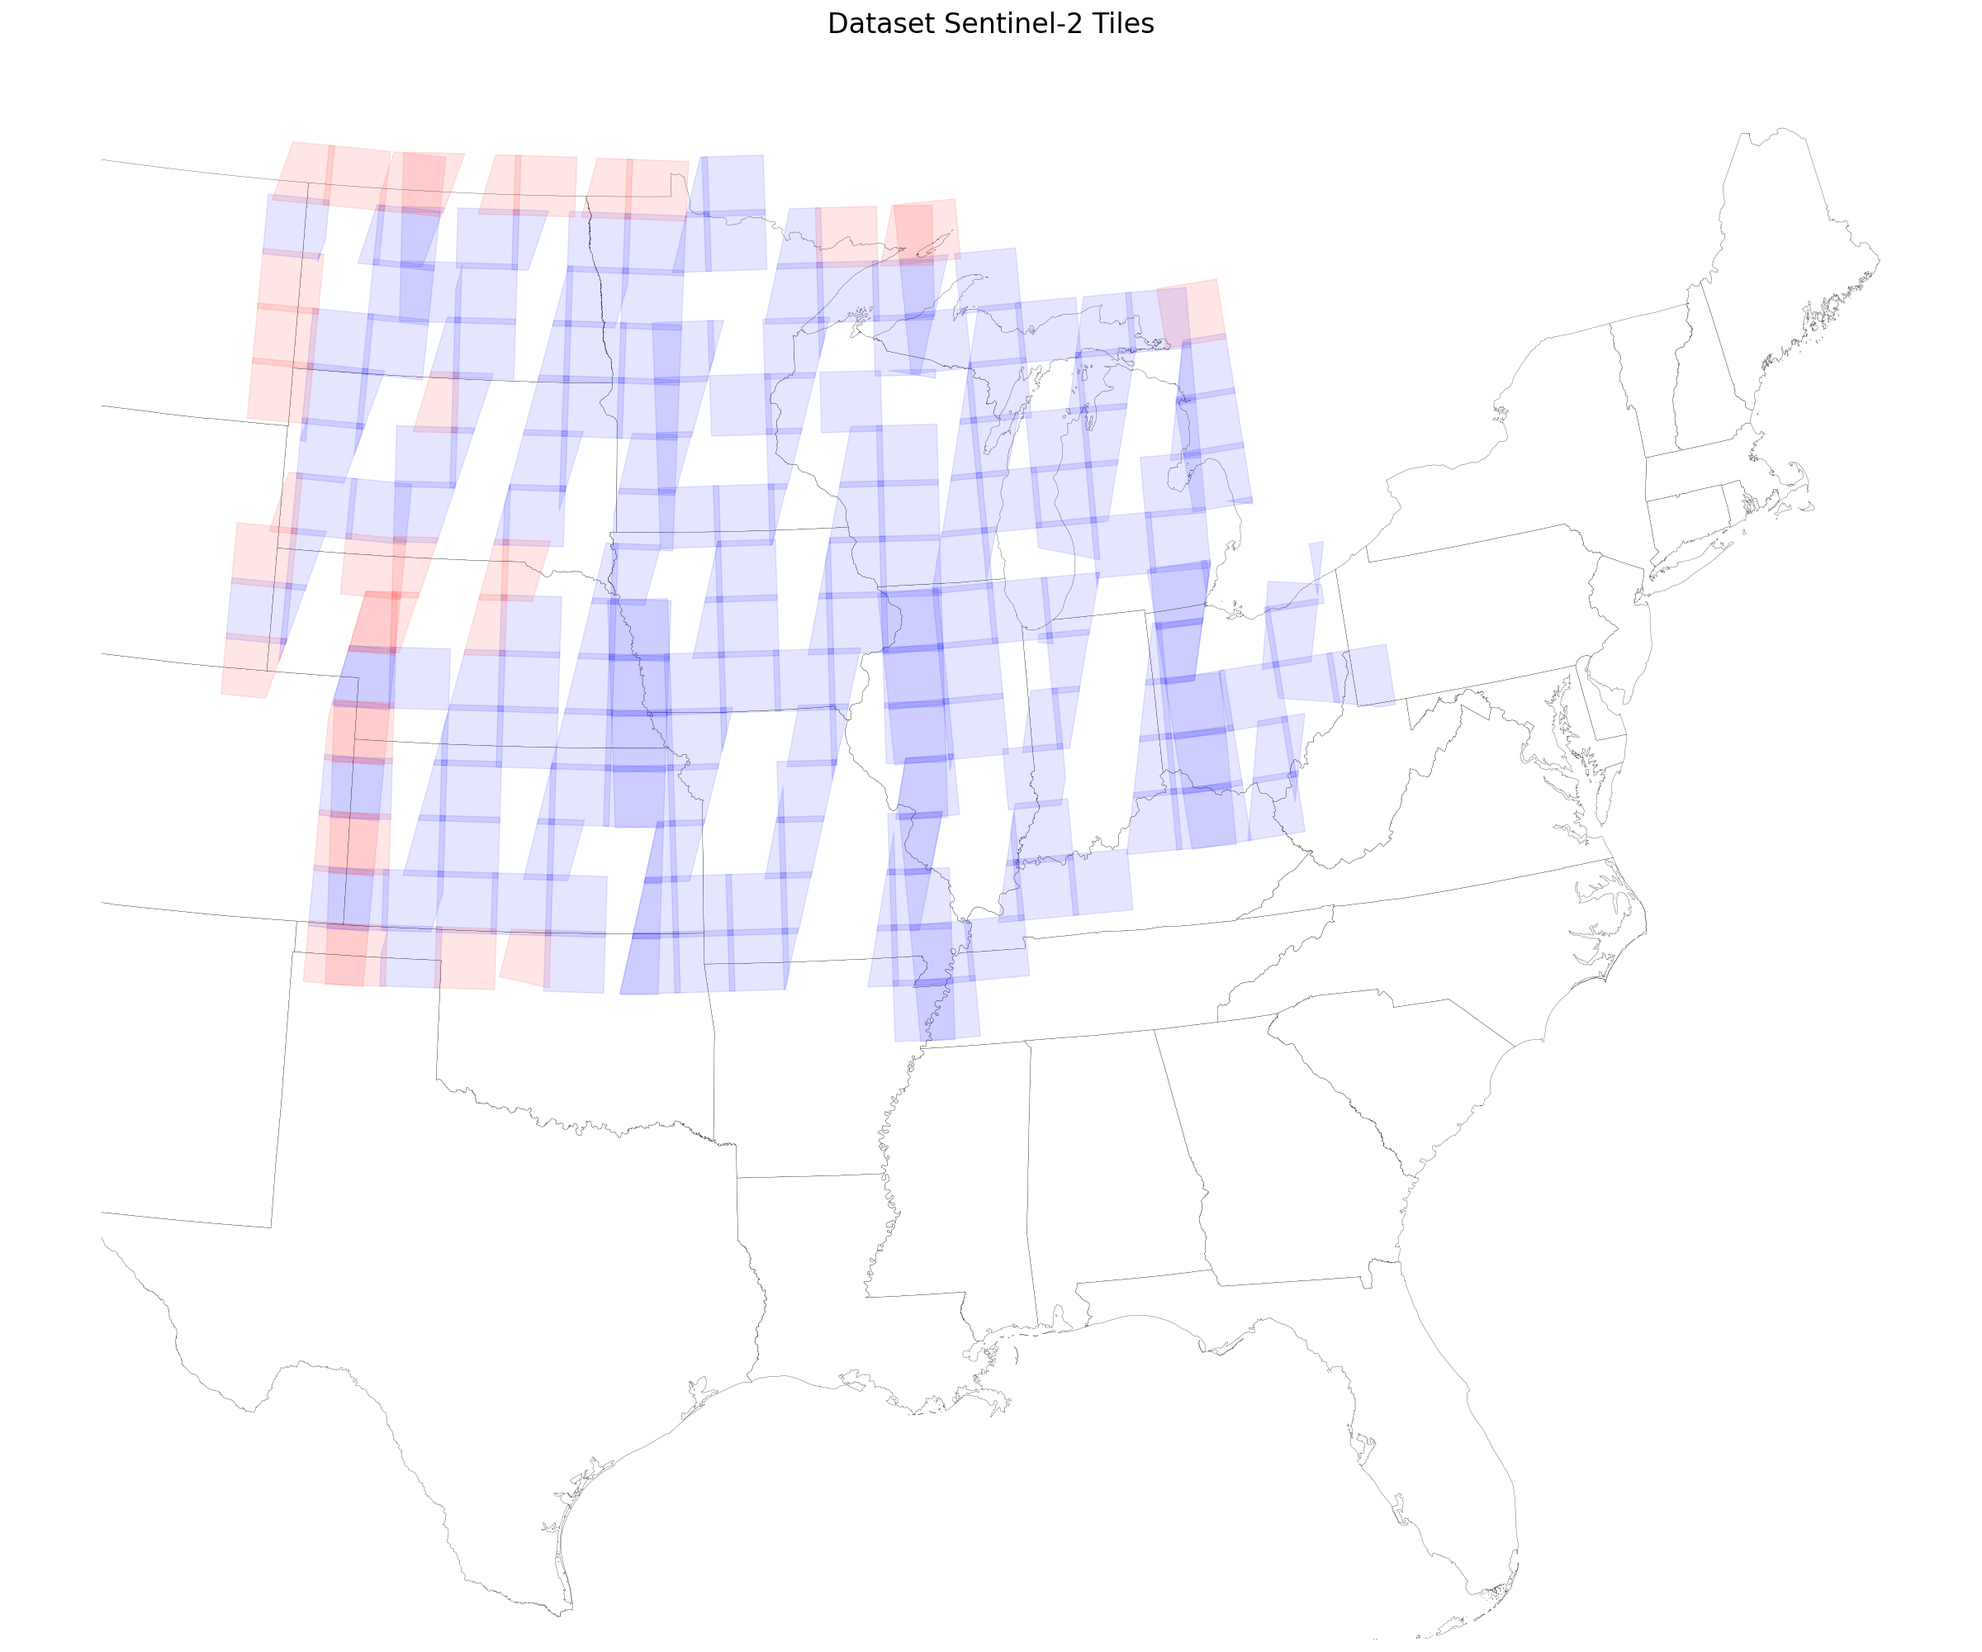
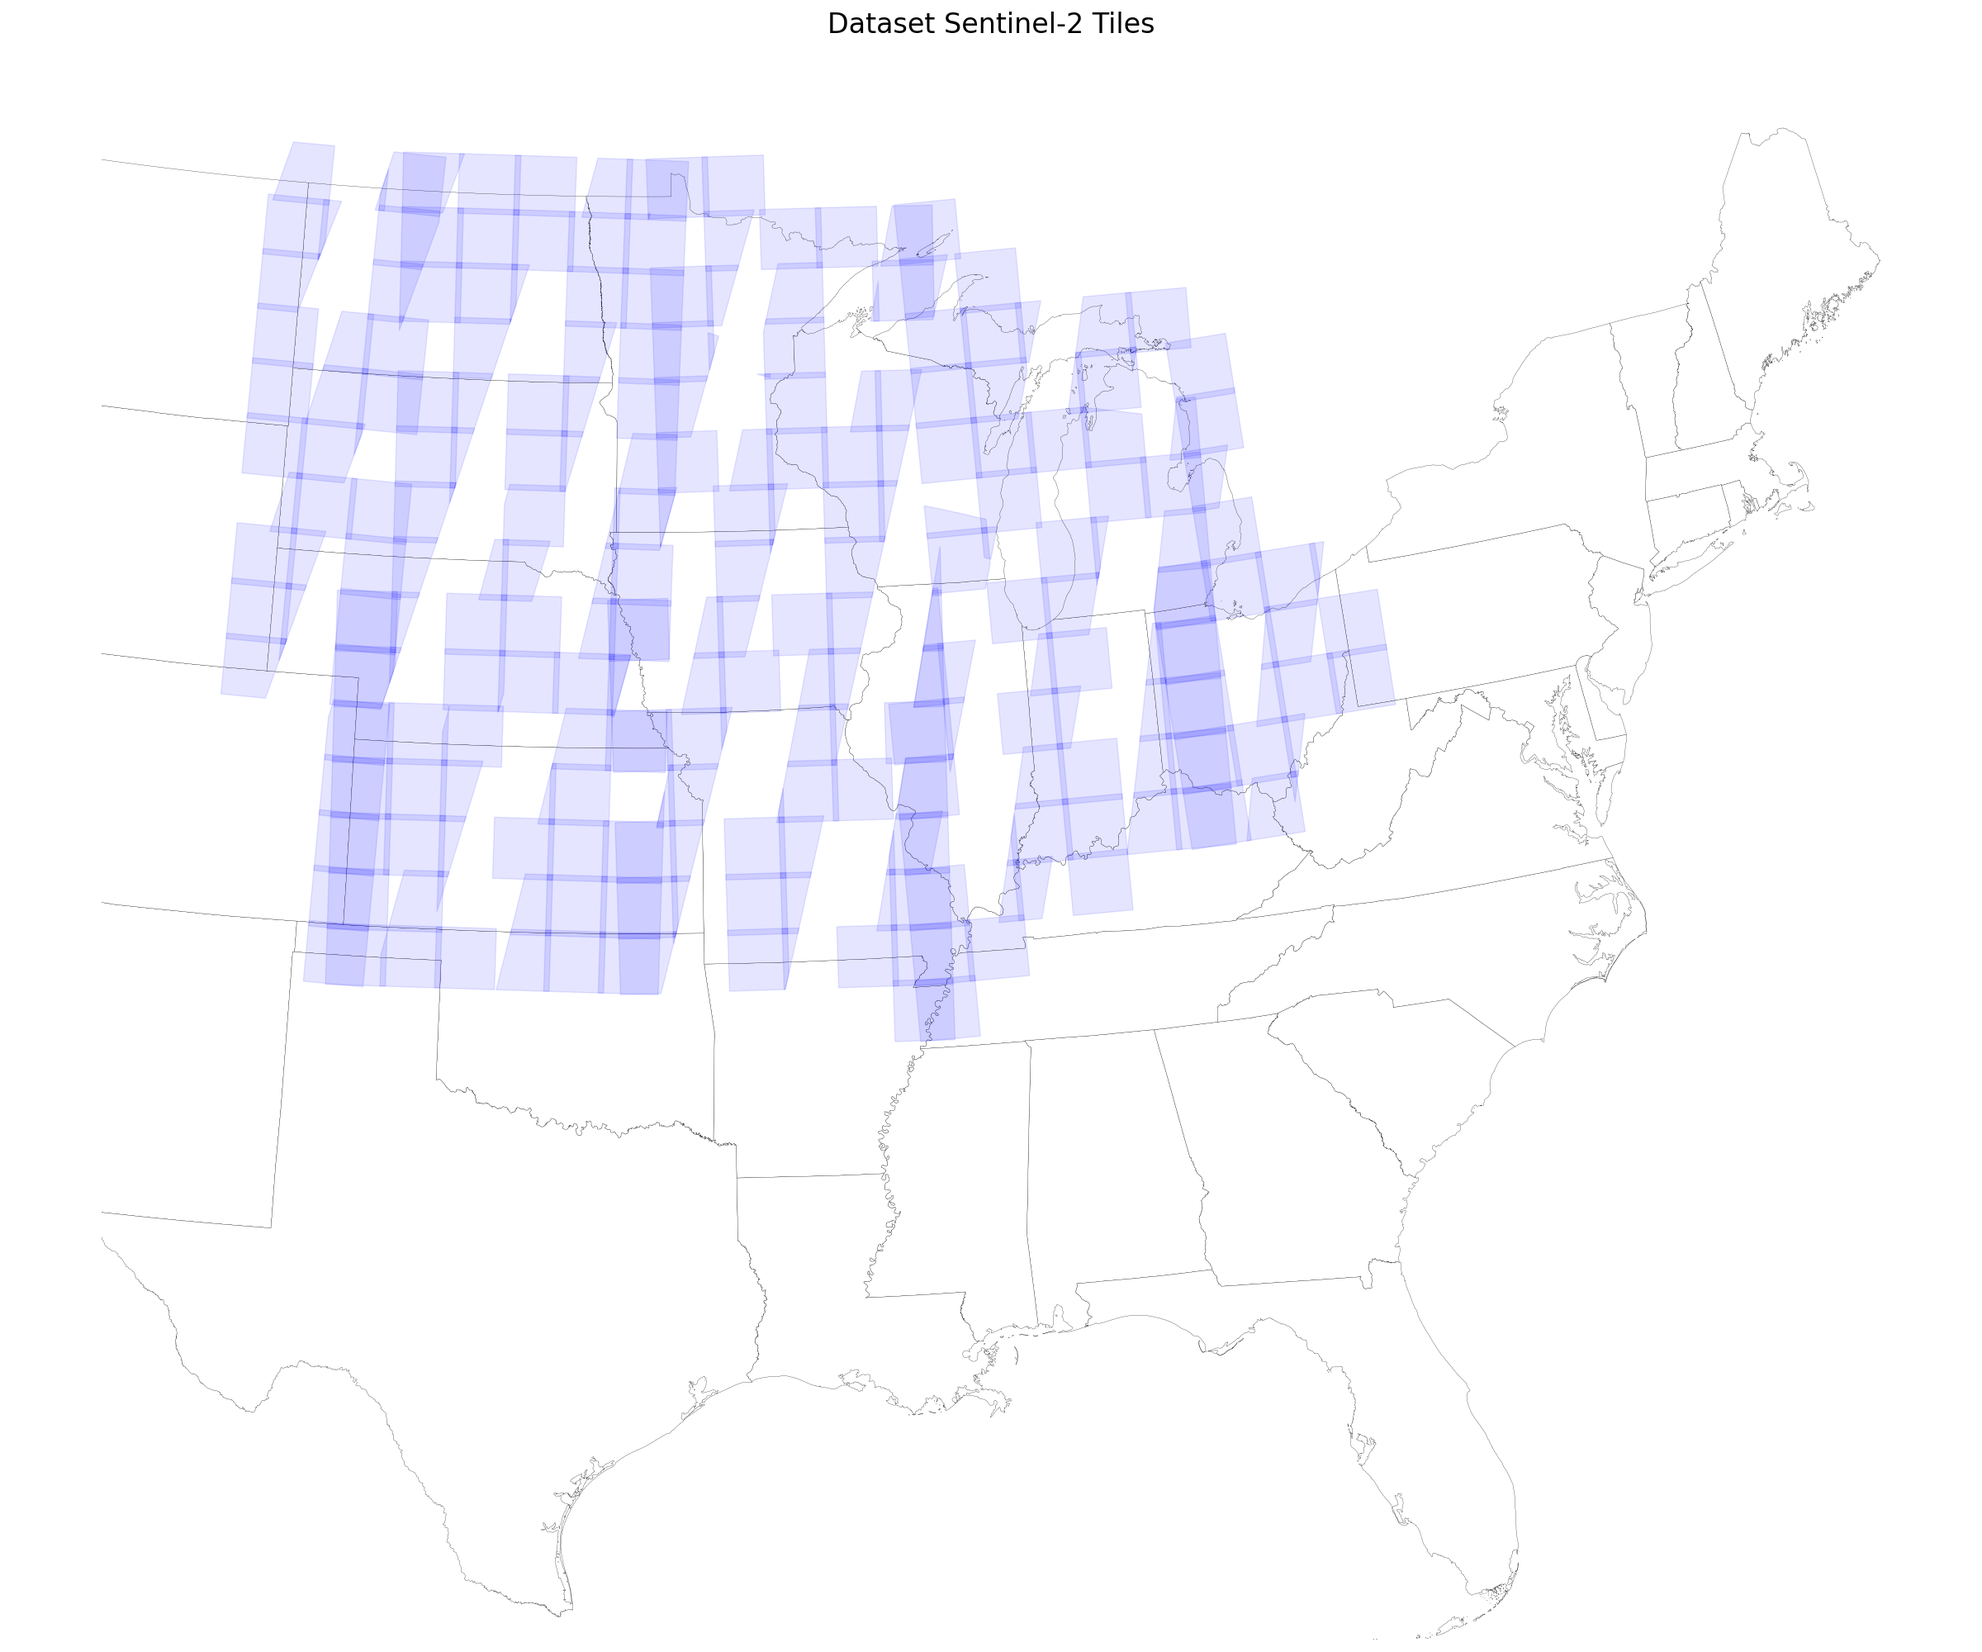
fixing band saving in chips.py

diff --git a/source/plots.py b/source/plots.py
@@ -12,7 +12,7 @@ import numpy as np
 # FILE PATHS
 US_SHP_PATH      = "../figures/cb_2024_us_state_500k/cb_2024_us_state_500k.shp"
 TRACTS_GEOM      = "../shapes/all_tracts/all_tracts.shp"
-S2_PRODUCTS_GEOM = "../other/search_results_geometries_2025.tsv"
+S2_PRODUCTS_GEOM = "../other/search_results_geometries_2023.tsv"
 
 PLOT_CRS         = "EPSG:5070"
 LABEL_MASK_LIST  = "../other/label_tiles.txt" #246 rasters w/ distinct tiles
@@ -46,15 +46,19 @@ def plot_tiles_and_tracts():
 	unique_mgrs,unique_mgrs_idx = np.unique(mgrs,return_index=True)
 	unique_tile_geom = np.array(tile_geom)[unique_mgrs_idx]
 	
-	with open(LABEL_MASK_LIST,'r') as fp:
-		label_tiles = [line.split('_')[0] for line in fp.readlines()]
+	# with open(LABEL_MASK_LIST,'r') as fp:
+		# label_tiles = [line.split('_')[0] for line in fp.readlines()]
  
-	good_mgrs_mask = np.isin(unique_mgrs,label_tiles)
-	good_mgrs      = unique_mgrs[good_mgrs_mask]
-	good_tile_geom = unique_tile_geom[good_mgrs_mask]
+	# good_mgrs_mask = np.isin(unique_mgrs,label_tiles)
+	# good_mgrs      = unique_mgrs[good_mgrs_mask]
+	# good_tile_geom = unique_tile_geom[good_mgrs_mask]
 
-	bad_mgrs      = unique_mgrs[~good_mgrs_mask]
-	bad_tile_geom = unique_tile_geom[~good_mgrs_mask]
+	# bad_mgrs      = unique_mgrs[~good_mgrs_mask]
+	# bad_tile_geom = unique_tile_geom[~good_mgrs_mask]
+
+	# DON'T FILTER
+	good_mgrs      = unique_mgrs
+	good_tile_geom = unique_tile_geom
 
 	# ---------------------------------------------------------------------------
 	# 3. Parse WKT geometries
@@ -68,21 +72,21 @@ def plot_tiles_and_tracts():
 	    crs="EPSG:4326"
 	)
 
-	bad_tile_wkts = [wkt.loads(s) for s in bad_tile_geom]
-	bad_tile_df   = pd.DataFrame({"tile": bad_mgrs})
-	bad_tile_gdf  = gpd.GeoDataFrame(
-	    bad_tile_df,
-	    geometry=bad_tile_wkts,
-	    crs="EPSG:4326"
-	)
-	bad_tile_gdf['geometry'] = bad_tile_gdf['geometry'].make_valid()
+	# bad_tile_wkts = [wkt.loads(s) for s in bad_tile_geom]
+	# bad_tile_df   = pd.DataFrame({"tile": bad_mgrs})
+	# bad_tile_gdf  = gpd.GeoDataFrame(
+	#     bad_tile_df,
+	#     geometry=bad_tile_wkts,
+	#     crs="EPSG:4326"
+	# )
+	# bad_tile_gdf['geometry'] = bad_tile_gdf['geometry'].make_valid()
 
 	# ---------------------------------------------------------------------------
 	# 4. PROJECT TO COMMON CRS
 	# ---------------------------------------------------------------------------
 	contiguous    = contiguous.to_crs(PLOT_CRS)
 	tile_gdf      = tile_gdf.to_crs(PLOT_CRS)
-	bad_tile_gdf  = bad_tile_gdf.to_crs(PLOT_CRS)
+	# bad_tile_gdf  = bad_tile_gdf.to_crs(PLOT_CRS)
 	all_tracts    = all_tracts.to_crs(PLOT_CRS)
 
 	# ---------------------------------------------------------------------------
@@ -93,7 +97,7 @@ def plot_tiles_and_tracts():
 	contiguous.plot(ax=ax,color='white',alpha=1.0,edgecolor='black',linewidth=0.15)
 	all_tracts.plot(ax=ax,color='white',alpha=1.0,edgecolor='black',linewidth=0.1)
 	tile_gdf.plot(ax=ax,color='blue',alpha=0.1,edgecolor='blue',linewidth=1.0)
-	bad_tile_gdf.plot(ax=ax,color='red',alpha=0.1,edgecolor='red',linewidth=1.0)
+	# bad_tile_gdf.plot(ax=ax,color='red',alpha=0.1,edgecolor='red',linewidth=1.0)
 
 	# zoom in
 	xmin, ymin, xmax, ymax = contiguous.total_bounds
@@ -138,15 +142,18 @@ def plot_tiles():
 	unique_mgrs,unique_mgrs_idx = np.unique(mgrs,return_index=True)
 	unique_tile_geom = np.array(tile_geom)[unique_mgrs_idx]
 	
-	with open(LABEL_MASK_LIST,'r') as fp:
-		label_tiles = [line.split('_')[0] for line in fp.readlines()]
+	# with open(LABEL_MASK_LIST,'r') as fp:
+	# 	label_tiles = [line.split('_')[0] for line in fp.readlines()]
  
-	good_mgrs_mask = np.isin(unique_mgrs,label_tiles)
-	good_mgrs      = unique_mgrs[good_mgrs_mask]
-	good_tile_geom = unique_tile_geom[good_mgrs_mask]
+	# good_mgrs_mask = np.isin(unique_mgrs,label_tiles)
+	# good_mgrs      = unique_mgrs[good_mgrs_mask]
+	# good_tile_geom = unique_tile_geom[good_mgrs_mask]
 
-	bad_mgrs      = unique_mgrs[~good_mgrs_mask]
-	bad_tile_geom = unique_tile_geom[~good_mgrs_mask]
+	# bad_mgrs      = unique_mgrs[~good_mgrs_mask]
+	# bad_tile_geom = unique_tile_geom[~good_mgrs_mask]
+
+	good_mgrs      = unique_mgrs
+	good_tile_geom = unique_tile_geom
 
 	# ---------------------------------------------------------------------------
 	# 3. Parse WKT geometries
@@ -160,21 +167,21 @@ def plot_tiles():
 	    crs="EPSG:4326"
 	)
 
-	bad_tile_wkts = [wkt.loads(s) for s in bad_tile_geom]
-	bad_tile_df   = pd.DataFrame({"tile": bad_mgrs})
-	bad_tile_gdf  = gpd.GeoDataFrame(
-	    bad_tile_df,
-	    geometry=bad_tile_wkts,
-	    crs="EPSG:4326"
-	)
-	bad_tile_gdf['geometry'] = bad_tile_gdf['geometry'].make_valid()
+	# bad_tile_wkts = [wkt.loads(s) for s in bad_tile_geom]
+	# bad_tile_df   = pd.DataFrame({"tile": bad_mgrs})
+	# bad_tile_gdf  = gpd.GeoDataFrame(
+	#     bad_tile_df,
+	#     geometry=bad_tile_wkts,
+	#     crs="EPSG:4326"
+	# )
+	# bad_tile_gdf['geometry'] = bad_tile_gdf['geometry'].make_valid()
 
 	# ---------------------------------------------------------------------------
 	# 4. PROJECT TO COMMON CRS
 	# ---------------------------------------------------------------------------
 	contiguous    = contiguous.to_crs(PLOT_CRS)
 	tile_gdf      = tile_gdf.to_crs(PLOT_CRS)
-	bad_tile_gdf  = bad_tile_gdf.to_crs(PLOT_CRS)
+	# bad_tile_gdf  = bad_tile_gdf.to_crs(PLOT_CRS)
 
 	# ---------------------------------------------------------------------------
 	# 5. PLOT LAYERS
@@ -185,7 +192,7 @@ def plot_tiles():
 	#plot
 	contiguous.plot(ax=ax,color='white',alpha=1.0,edgecolor='black',linewidth=0.2)
 	tile_gdf.plot(ax=ax,color='blue',alpha=0.1,edgecolor='blue',linewidth=1.0)
-	bad_tile_gdf.plot(ax=ax,color='red',alpha=0.1,edgecolor='red',linewidth=1.0)
+	# bad_tile_gdf.plot(ax=ax,color='red',alpha=0.1,edgecolor='red',linewidth=1.0)
 
 	# zoom in
 	xmin, ymin, xmax, ymax = contiguous.total_bounds
@@ -360,10 +367,10 @@ def plot_features_chip(path):
 
 if __name__ == "__main__":
 	# plot_label('../masks/T13SGB_diabetes.tif')
-	# plot_tiles_and_tracts()
-	# plot_tiles()
-	# plot_tracts()
+	plot_tiles_and_tracts()
+	plot_tiles()
+	plot_tracts()
 
 	# plot_label('../../health_chips/chips/T15TUH_20250619T165849_R069_39_42_lbl.tif')
 	# plot_features_chip('../../health_chips/features/T15TUH_20250619T165849_R069_39_42_ftr.tif')
-	plot_features('../../health_chips/T15TUH_features.tif')
+	# plot_features('../../health_chips/T15TUH_features.tif')

diff --git a/source/chips.py b/source/chips.py
@@ -16,6 +16,9 @@ import sys
 import argparse
 import subprocess as sp
 
+import shutil
+from concurrent.futures import ThreadPoolExecutor
+
 # Typing
 # ndarray = np.ndarray
 
@@ -35,6 +38,10 @@ STRIDE    = 256
 # NR OF PROCESSES PER RASTER
 N_PROC = 8
 
+# BANDS
+BANDS = ["B01","B02","B03","B04","B05","B06","B07","B11","B12","B8A"]
+
+URBAN_THRESHOLD = CHIP_SIZE*CHIP_SIZE/2
 ####################################################################################################
 # CLASSES
 ####################################################################################################
@@ -344,6 +351,20 @@ def get_windows(borders):
 	return windows
 
 
+def copy_single_file(src,dst):
+	shutil.copy2(src,dst)
+
+
+def copy_threaded(file_queue,dest_dir):
+
+	# List of tuples containing (source_path, destination_path)
+	file_pairs = list(zip(file_queue,[dest_dir]*len(file_queue)))
+
+	# Copy files simultaneously using 4 worker threads
+	with ThreadPoolExecutor(max_workers=N_PROC) as executor:
+		executor.map(copy_single_file, file_pairs)
+
+
 def chip_image(s2_readers,label_path,feature_path,base_id,index,N):
 
 	# STDOUT
@@ -422,12 +443,31 @@ def chip_image_worker(rgb,label_path,feature_path,windows,base_id):
 		if (lbl_array == 0).any():
 			continue
 
-		# LOAD RGB/IF NO DATA IN RGB SKIP CHIP
-		r_array = rgb[0][w.row_off:w.row_off+CHIP_SIZE, w.col_off:w.col_off+CHIP_SIZE]
-		if (r_array == 0).any():
+		# CHECK PROPORTION OF RUCA CODE==10
+		n_10 = (ftr_array[0]==10).sum()
+		if n_10 > URBAN_THRESHOLD:
 			continue
-		g_array = rgb[1][w.row_off:w.row_off+CHIP_SIZE, w.col_off:w.col_off+CHIP_SIZE]
-		b_array = rgb[2][w.row_off:w.row_off+CHIP_SIZE, w.col_off:w.col_off+CHIP_SIZE]
+
+		# LOAD BANDS/IF NO DATA IN BAND SKIP CHIP
+		b_array = rgb[0][w.row_off:w.row_off+CHIP_SIZE, w.col_off:w.col_off+CHIP_SIZE]
+		if (b_array == 0).any():
+			continue
+		# g_array = rgb[1][w.row_off:w.row_off+CHIP_SIZE, w.col_off:w.col_off+CHIP_SIZE]
+		# b_array = rgb[2][w.row_off:w.row_off+CHIP_SIZE, w.col_off:w.col_off+CHIP_SIZE]
+
+		for band_arr in rgb:
+			band_arr[w.row_off:w.row_off+CHIP_SIZE, w.col_off:w.col_off+CHIP_SIZE]
+
+
+		pil_bands = [Image.fromarray(array_10_bands[i]) for i in range(10)]
+
+		# Save as a multi-frame TIFF
+		pil_bands[0].save(
+			"pillow_10_bands.tif",
+			format="TIFF",
+			save_all=True,
+			append_images=pil_bands[1:]
+		)
 
 		# GOOD -- SAVE BANDS
 		row,col = rowcol
@@ -469,7 +509,7 @@ if __name__ == '__main__':
 	########## ARGV CONFIG ##########
 	parser = argparse.ArgumentParser(
 		prog="chips.py",
-		description="Large Sentinel-2 and labels to 224x224 images.")
+		description="Large Sentinel-2 and labels to 256x256 images.")
 
 	# PATHS
 	parser.add_argument('--work-dir',default='/cache',
@@ -479,7 +519,7 @@ if __name__ == '__main__':
 	parser.add_argument('--s2-dir',default=None,
 		help="Source directory for raw Sentinel-2 products.")
 	parser.add_argument('--label-dir',default=None,
-		help="Source directory for 10980x10980 mask rasters.")
+		help="Source directory for mask rasters.")
 
 
 	########## SET ARGS ##########
@@ -526,7 +566,7 @@ if __name__ == '__main__':
 	label_tiles = [s.split('_')[0] for s in label_tiffs]
 
 	########## GET PRODUCT INTERSECTION ##########
-	band2_regex = "eodata/Sentinel-2/MSI/L2A/*/*/*/*.SAFE/GRANULE/*/IMG_DATA/R10m/*_B02_10m.jp2" #1637
+	band2_regex = "eodata/Sentinel-2/MSI/L2A_N0500/*/*/*/*.SAFE/GRANULE/*/IMG_DATA/R20m/*_B02_20m.jp2" #1637
 	s2_tiffs         = glob.glob(band2_regex,root_dir=S2_DIR)
 	s2_tiles         = [s.split('/')[-1].split('_')[0] for s in s2_tiffs]
 
@@ -554,45 +594,54 @@ if __name__ == '__main__':
 		chip_base_paths = []
 		tiles_in_chunk  = []
 
+		copy_band_queue = []
+
 		########## DOWNLOAD/COPY ####################
 		for b2_path in chunk:
 
 			# GET SOME STRINGS
-			b3_path = b2_path.replace("_B02_","_B03_")
-			b4_path = b2_path.replace("_B02_","_B04_")
+			for b in BANDS:
+				band_path = b2_path.replace("_B02_",f"_{b}_")
+				copy_band_queue.append(f"{S2_DIR}/{band_path}")
+			
 			tile  = b2_path.split('/')[-1].split('_')[0]
 			date  = b2_path.split('/')[-1].split('_')[1]
 			orbit = b2_path.split('/')[7].split('_')[4]
+
 			chip_base_paths.append(f"{CHIP_DIR}/{tile}_{date}_{orbit}")
 			tiles_in_chunk.append(tile)
 
 			# COPY 3 BANDS
-			sp.run(["cp","-v",f"{S2_DIR}/{b2_path}",WORK_DIR])
-			sp.run(["cp","-v",f"{S2_DIR}/{b3_path}",WORK_DIR])
-			sp.run(["cp","-v",f"{S2_DIR}/{b4_path}",WORK_DIR])
+			# sp.run(["cp","-v",f"{S2_DIR}/{b2_path}",WORK_DIR])
+			# sp.run(["cp","-v",f"{S2_DIR}/{b3_path}",WORK_DIR])
+			# sp.run(["cp","-v",f"{S2_DIR}/{b4_path}",WORK_DIR])
+
+		copy_threaded(copy_band_queue,WORK_DIR)
+
 
 		# COPY ONLY NECESSARY LABELS
+		copy_mask_queue = []
 		for t in list(np.unique(tiles_in_chunk)):
-			sp.run(["cp","-v",f"{LABEL_DIR}/{t}_diabetes.tif",WORK_DIR])
-			sp.run(["cp","-v",f"{LABEL_DIR}/{t}_features.tif",WORK_DIR])
+			copy_mask_queue.append(f"{LABEL_DIR}/{t}_diabetes.tif")
+			copy_mask_queue.append(f"{LABEL_DIR}/{t}_features.tif")
 
+		copy_threaded(copy_mask_queue,WORK_DIR)
 
 		########## CHIP ####################
 		for i,product in enumerate(chunk):
 
 			# PATHS & READERS
 			local_b2_path = product.split('/')[-1]
-			local_b3_path = local_b2_path.replace("_B02_","_B03_")
-			local_b4_path = local_b2_path.replace("_B02_","_B03_")
-			b2_reader     = rio.open(f"{WORK_DIR}/{local_b2_path}",'r',tiled=True)
-			b3_reader     = rio.open(f"{WORK_DIR}/{local_b3_path}",'r',tiled=True)
-			b4_reader     = rio.open(f"{WORK_DIR}/{local_b4_path}",'r',tiled=True)
-			rgb_readers   = [b4_reader,b3_reader,b2_reader]
+
+			for b in BANDS:
+				local_band_path = local_b2_path.replace("_B02_",f"_{b}_")
+				band_readers.append(rio.open(f"{WORK_DIR}/{local_band_path}",'r',tiled=True))
+
 			label_path   = f"{WORK_DIR}/{tiles_in_chunk[i]}_diabetes.tif"
 			feature_path = f"{WORK_DIR}/{tiles_in_chunk[i]}_features.tif"
 
 			# CHIP
-			chip_image(rgb_readers,label_path,feature_path,chip_base_paths[i],i,len(chunk))
+			chip_image(band_readers,label_path,feature_path,chip_base_paths[i],i,len(chunk))
 
 
 		########## DELETE FILES ############

diff --git a/source/rasterize_polygons.py b/source/rasterize_polygons.py
@@ -106,7 +106,6 @@ def process_tile(s2_path:str,master_polygons:gpd.GeoDataFrame,data_dir:str) -> N
 		"nodata": 0
 	})
 
-	os.makedirs(f"{data_dir}/masks", exist_ok=True)
 	with rasterio.open(label_path, "w", **s2_meta) as dest:
 	    dest.write(rasterized_label, 1)
 	print(f"Label file written to {label_path}.")
@@ -189,23 +188,18 @@ if __name__ == '__main__':
 		help="Flag. If set, download Sentinel-2 products needed.")
 	args = parser.parse_args()
 
-	if args.data_dir is None:
-		print("Got None for data-dir argument.")
-		sys.exit(1)
-
-	if not os.path.isdir(args.data_dir):
-		print(f"Data dir {args.data_dir} not found.")
-		sys.exit(1)
-
+	assert args.data_dir is not None, "Got None for data-dir argument."
+	assert os.path.isdir(args.data_dir), f"Data dir {args.data_dir} not found."
+	os.makedirs(f"{args.data_dir}/masks", exist_ok=True)
 
 	# FIND UNIQUE TILES
 	# assume running inside s2-health-preprocessing/source/
 	with open('../other/search_results_2023.tsv','r') as fp:
-	# with open('../other/search_subset.tsv') as fp: #--testing
 		s2_ids = [l.split('\t')[0] for l in fp.readlines()]
 	mgrs_tiles = [s.split('_')[5] for s in s2_ids]
 	unique_mgrs,first_index = np.unique(mgrs_tiles,return_index=True)
 	unique_ids = np.array(s2_ids)[first_index]
+	print(f"{len(mgrs_tiles)} Products. {len(unique_ids)} unique MGRS tiles.")
 	# 281 tiles,1318 products,05/15--08/15*
 
 
@@ -213,17 +207,17 @@ if __name__ == '__main__':
 	if args.download:
 		remote_paths = [get_remote_band_path(s) for s in unique_ids]
 
-		# CP/UNIX
+		# CP/UNIX/LOCAL
 		# for rp in remote_paths:
 		# 	path = REMOTE_PATH+'/'+rp
 		# 	sp.run(["cp",path,args.data_dir]) #<--- need to add parent dir structure
 
 		# S3/RCLONE
-		with open("../other/temp_include.txt",'w') as fp:
+		with open("../other/unique_tile_files.txt",'w') as fp:
 			fp.write("\n".join(remote_paths))
 
 		#run rclone download
-		sp.run(["rclone","copy",REMOTE_PATH,args.data_dir,"--include-from","../other/temp_include.txt","--stats","10s","-v"])
+		sp.run(["rclone","copy",REMOTE_PATH,args.data_dir,"--include-from","../other/unique_tile_files.txt","--stats","10s"])
 
 
 	# LOAD ALL POLYGONS
